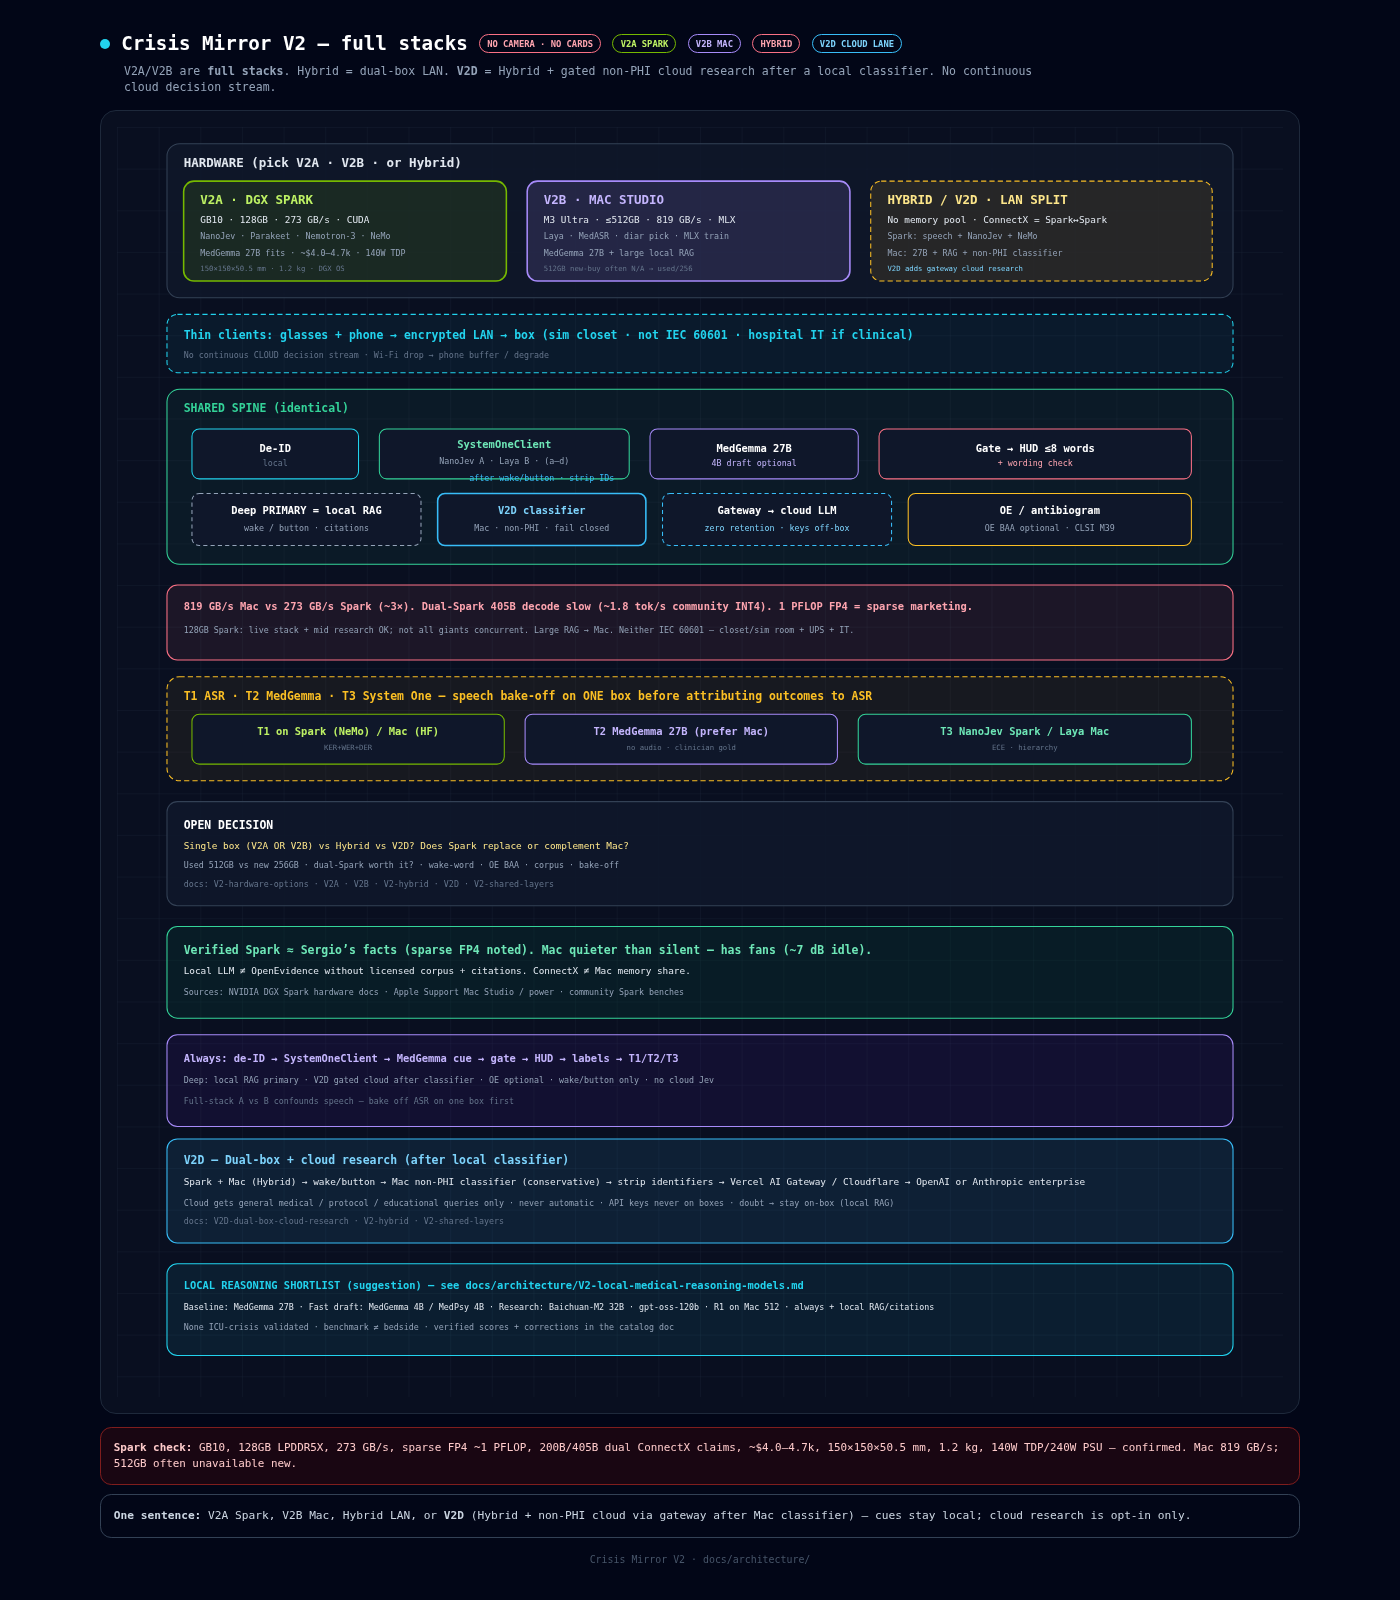
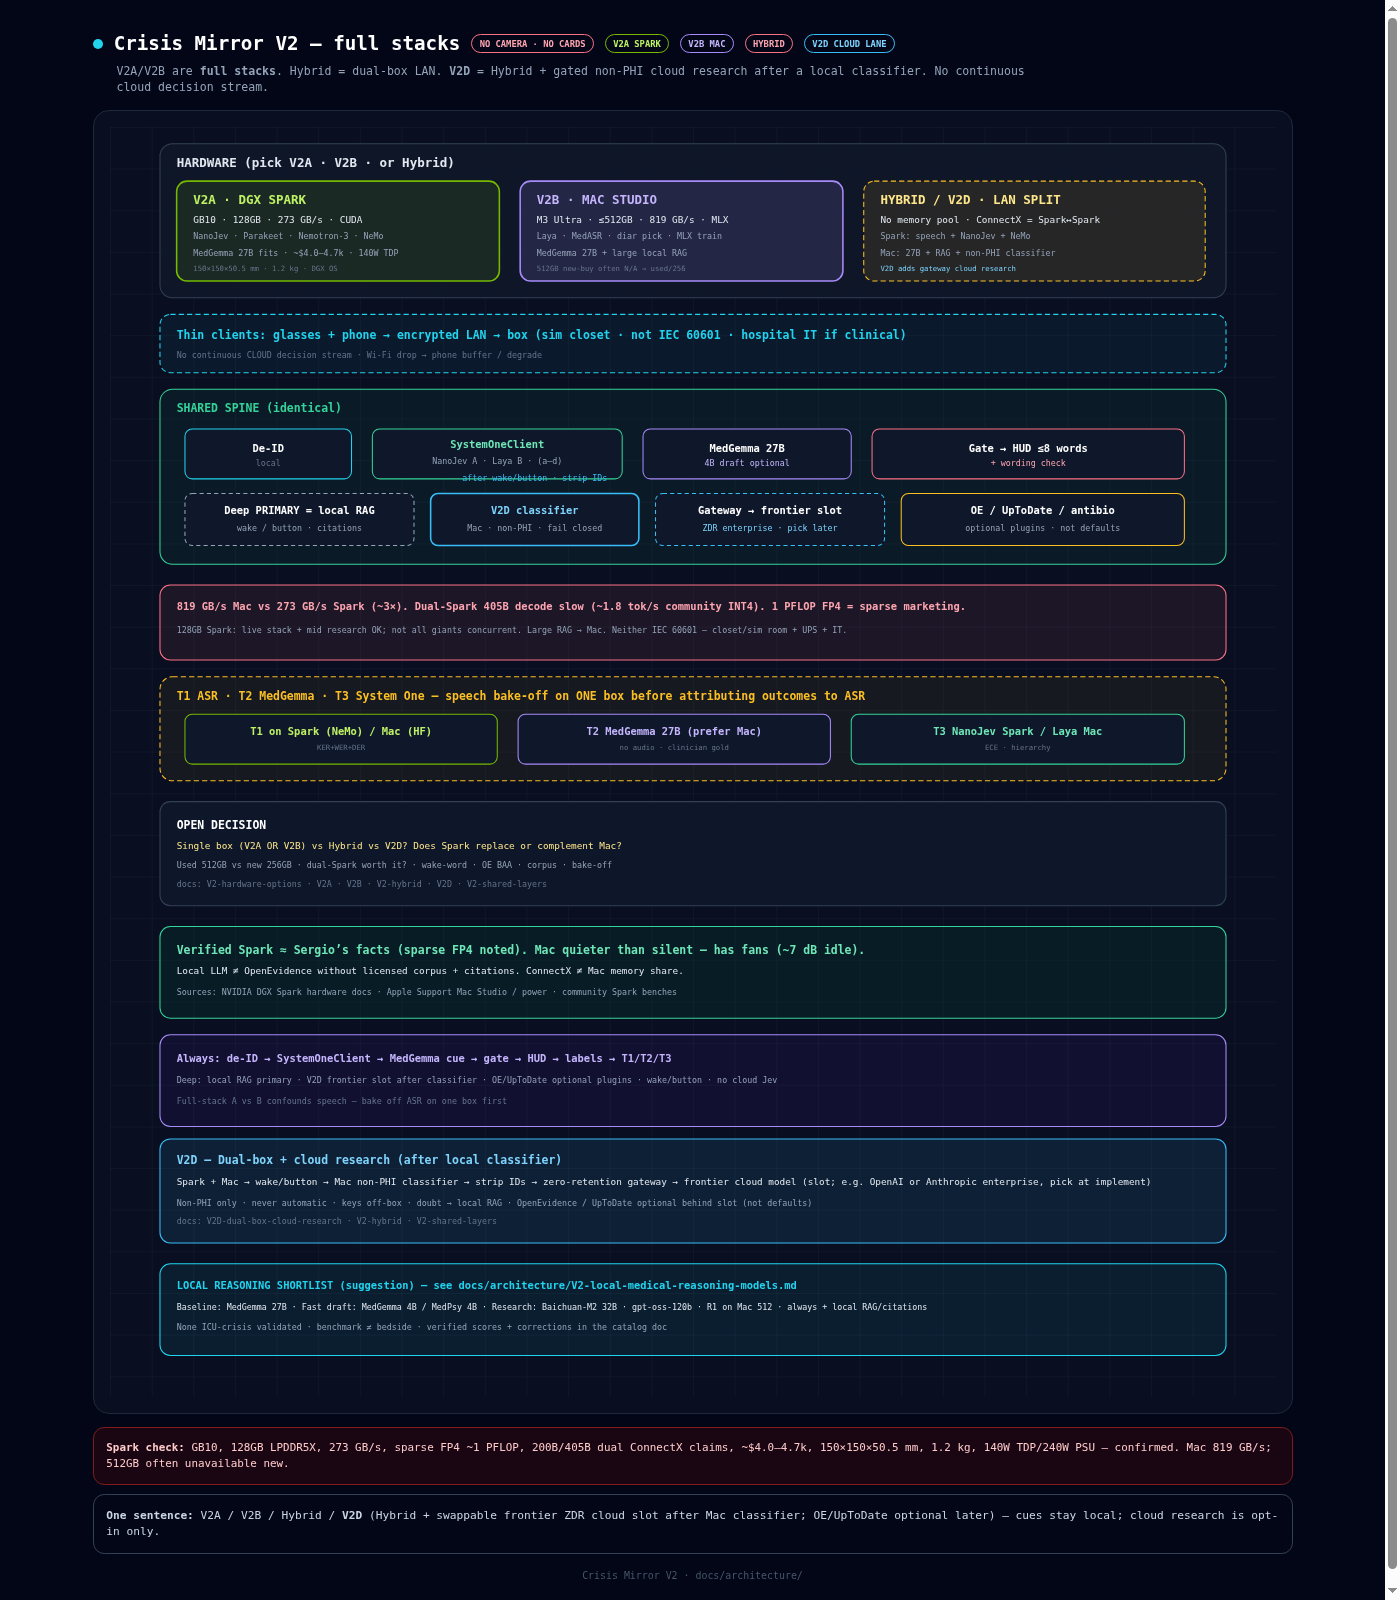
docs(arch): V2D cloud model is a swappable frontier slot
Provider is chosen at implementation (ZDR enterprise tier, e.g. OpenAI or
Anthropic). OpenEvidence and UpToDate listed as optional curated plugins, not
defaults. Diagram labels updated.

diff --git a/crisis-mirror-architecture.html b/crisis-mirror-architecture.html
@@ -62,8 +62,8 @@ svg{width:100%;min-width:1100px;display:block}
 <rect x="732" y="290" width="300" height="48" rx="7" fill="#0f172a" stroke="#fb7185"/><text x="882" y="312" fill="#fff" font-size="10" font-weight="600" text-anchor="middle">Gate → HUD ≤8 words</text><text x="882" y="326" fill="#fda4af" font-size="8" text-anchor="middle">+ wording check</text>
 <rect x="72" y="352" width="220" height="50" rx="7" fill="#0f172a" stroke="#94a3b8" stroke-dasharray="4,3"/><text x="182" y="372" fill="#fff" font-size="10" font-weight="600" text-anchor="middle">Deep PRIMARY = local RAG</text><text x="182" y="388" fill="#94a3b8" font-size="8" text-anchor="middle">wake / button · citations</text>
 <rect x="308" y="352" width="200" height="50" rx="7" fill="#0f172a" stroke="#38bdf8" stroke-width="1.5"/><text x="408" y="372" fill="#7dd3fc" font-size="10" font-weight="700" text-anchor="middle">V2D classifier</text><text x="408" y="388" fill="#94a3b8" font-size="8" text-anchor="middle">Mac · non-PHI · fail closed</text>
-<rect x="524" y="352" width="220" height="50" rx="7" fill="#0f172a" stroke="#38bdf8" stroke-dasharray="4,3"/><text x="634" y="372" fill="#fff" font-size="10" font-weight="600" text-anchor="middle">Gateway → cloud LLM</text><text x="634" y="388" fill="#7dd3fc" font-size="8" text-anchor="middle">zero retention · keys off-box</text>
-<rect x="760" y="352" width="272" height="50" rx="7" fill="#0f172a" stroke="#fbbf24"/><text x="896" y="372" fill="#fff" font-size="10" font-weight="600" text-anchor="middle">OE / antibiogram</text><text x="896" y="388" fill="#94a3b8" font-size="8" text-anchor="middle">OE BAA optional · CLSI M39</text>
+<rect x="524" y="352" width="220" height="50" rx="7" fill="#0f172a" stroke="#38bdf8" stroke-dasharray="4,3"/><text x="634" y="372" fill="#fff" font-size="10" font-weight="600" text-anchor="middle">Gateway → frontier slot</text><text x="634" y="388" fill="#7dd3fc" font-size="8" text-anchor="middle">ZDR enterprise · pick later</text>
+<rect x="760" y="352" width="272" height="50" rx="7" fill="#0f172a" stroke="#fbbf24"/><text x="896" y="372" fill="#fff" font-size="10" font-weight="600" text-anchor="middle">OE / UpToDate / antibio</text><text x="896" y="388" fill="#94a3b8" font-size="8" text-anchor="middle">optional plugins · not defaults</text>
 <!-- V2D branch arrows (conceptual labels) -->
 <text x="408" y="340" fill="#38bdf8" font-size="8" text-anchor="middle">after wake/button · strip IDs</text>
 
@@ -90,14 +90,14 @@ svg{width:100%;min-width:1100px;display:block}
 
 <rect x="48" y="872" width="1024" height="88" rx="10" fill="rgba(76,29,149,.15)" stroke="#a78bfa"/>
 <text x="64" y="898" fill="#c4b5fd" font-size="10" font-weight="700">Always: de-ID → SystemOneClient → MedGemma cue → gate → HUD → labels → T1/T2/T3</text>
-<text x="64" y="918" fill="#94a3b8" font-size="8">Deep: local RAG primary · V2D gated cloud after classifier · OE optional · wake/button only · no cloud Jev</text>
+<text x="64" y="918" fill="#94a3b8" font-size="8">Deep: local RAG primary · V2D frontier slot after classifier · OE/UpToDate optional plugins · wake/button · no cloud Jev</text>
 <text x="64" y="938" fill="#64748b" font-size="8">Full-stack A vs B confounds speech — bake off ASR on one box first</text>
 
 <!-- V2D cloud research lane -->
 <rect x="48" y="972" width="1024" height="100" rx="10" fill="rgba(56,189,248,.1)" stroke="#38bdf8"/>
 <text x="64" y="996" fill="#7dd3fc" font-size="11" font-weight="700">V2D — Dual-box + cloud research (after local classifier)</text>
-<text x="64" y="1016" fill="#e2e8f0" font-size="9">Spark + Mac (Hybrid) → wake/button → Mac non-PHI classifier (conservative) → strip identifiers → Vercel AI Gateway / Cloudflare → OpenAI or Anthropic enterprise</text>
-<text x="64" y="1036" fill="#94a3b8" font-size="8">Cloud gets general medical / protocol / educational queries only · never automatic · API keys never on boxes · doubt → stay on-box (local RAG)</text>
+<text x="64" y="1016" fill="#e2e8f0" font-size="9">Spark + Mac → wake/button → Mac non-PHI classifier → strip IDs → zero-retention gateway → frontier cloud model (slot; e.g. OpenAI or Anthropic enterprise, pick at implement)</text>
+<text x="64" y="1036" fill="#94a3b8" font-size="8">Non-PHI only · never automatic · keys off-box · doubt → local RAG · OpenEvidence / UpToDate optional behind slot (not defaults)</text>
 <text x="64" y="1054" fill="#64748b" font-size="8">docs: V2D-dual-box-cloud-research · V2-hybrid · V2-shared-layers</text>
 
 <!-- Reasoning shortlist -->
@@ -107,6 +107,6 @@ svg{width:100%;min-width:1100px;display:block}
 <text x="64" y="1156" fill="#94a3b8" font-size="8">None ICU-crisis validated · benchmark ≠ bedside · verified scores + corrections in the catalog doc</text>
 </svg></div>
 <div class="flag"><b>Spark check:</b> GB10, 128GB LPDDR5X, 273 GB/s, sparse FP4 ~1 PFLOP, 200B/405B dual ConnectX claims, ~$4.0–4.7k, 150×150×50.5 mm, 1.2 kg, 140W TDP/240W PSU — confirmed. Mac 819 GB/s; 512GB often unavailable new.</div>
-<div class="ok"><b>One sentence:</b> V2A Spark, V2B Mac, Hybrid LAN, or <b>V2D</b> (Hybrid + non-PHI cloud via gateway after Mac classifier) — cues stay local; cloud research is opt-in only.</div>
+<div class="ok"><b>One sentence:</b> V2A / V2B / Hybrid / <b>V2D</b> (Hybrid + swappable frontier ZDR cloud slot after Mac classifier; OE/UpToDate optional later) — cues stay local; cloud research is opt-in only.</div>
 <p class="footer">Crisis Mirror V2 · docs/architecture/</p>
 </div></body></html>

diff --git a/docs/architecture/V2D-dual-box-cloud-research.md b/docs/architecture/V2D-dual-box-cloud-research.md
@@ -10,14 +10,14 @@ It is **not** a fourth full speech stack. Speech + System One + MedGemma cues st
 |-------|--------|------|
 | DGX Spark | On-prem | Speech (Parakeet + Nemotron-3) · NanoJev · NeMo T1/T3 · optional mid local research |
 | Mac Studio | On-prem | MedGemma 27B · local RAG · **non-PHI classifier** · egress strip · HUD / panel |
-| Cloud research LLM | Via **gateway only** | On-demand deep research when classifier says **non-PHI** |
+| **Frontier cloud model (slot)** | Via **gateway only** | Swappable: a frontier cloud model with **zero-data-retention enterprise tier** (e.g. OpenAI or Anthropic), **selected at implementation time** |
 
 ## Hard rules (non-negotiable)
 
 1. **Cloud never sees PHI.** Only questions the local system has classified as **non-PHI** (general medical knowledge, protocol lookups, educational queries).
 2. **Strip identifiers before egress.** Patient names, MRNs, ages that identify, unit/bed, dates that identify, free-text that still contains identifiers — all removed on-box.
 3. **Classify on the Mac Studio before egress.** The classifier runs **locally**; when in doubt → **keep on-box** (local RAG only). Conservative bias is required.
-4. **Gateway with zero data retention.** Prefer **OpenAI or Anthropic enterprise** (or equivalent) routed through **Vercel AI Gateway** or **Cloudflare** (or similar) so **API keys never live on the Spark or Mac**. Boxes call the gateway; the gateway holds provider credentials.
+4. **Gateway with zero data retention.** Route through a gateway (e.g. **Vercel AI Gateway** or **Cloudflare**) so **API keys never live on the Spark or Mac**. The **cloud model is a swappable slot**: a frontier cloud model with **zero-data-retention enterprise tier** (e.g. OpenAI or Anthropic), **selected at implementation time** — not locked in the architecture. Boxes call the gateway; the gateway holds provider credentials.
 5. **On-demand only.** Wake word or clinician button — **never automatic**. Same trigger contract as local deep research ("Hey Dr. Bellomo" placeholder / button).
 6. **No continuous cloud decision stream.** System One (a–d), MedGemma cues, and the safety gate stay **local**. Cloud is research, not bedside routing.
 
@@ -28,7 +28,8 @@ clinician wake/button
     → Mac Studio builds research question from room context
     → local non-PHI classifier (conservative)
          ├─ PHI / uncertain → local RAG only (never egress)
-         └─ non-PHI → strip identifiers → gateway → cloud research LLM
+         └─ non-PHI → strip identifiers → gateway → **frontier cloud model (slot)**
+              → optional curated evidence plugins (OE / UpToDate) if contracted
               → citations/panel back to clinician UI
 ```
 
@@ -38,20 +39,22 @@ Local RAG remains **primary** for anything that might touch the patient. Cloud i
 
 | Variant | Boxes | Deep research |
 |---------|-------|----------------|
-| **V2A** | Spark only | Local RAG (+ OE optional w/ BAA) |
-| **V2B** | Mac only | Local RAG (+ OE optional w/ BAA) |
-| **Hybrid** | Spark + Mac | Local RAG on Mac (+ OE optional) |
-| **V2D** | Spark + Mac | Local RAG **+** gated non-PHI cloud via zero-retention gateway |
+| **V2A** | Spark only | Local RAG (+ optional curated evidence later) |
+| **V2B** | Mac only | Local RAG (+ optional curated evidence later) |
+| **Hybrid** | Spark + Mac | Local RAG on Mac (+ optional curated evidence later) |
+| **V2D** | Spark + Mac | Local RAG **+** gated non-PHI **frontier cloud model (slot)** via zero-retention gateway |
 
-OpenEvidence (enterprise BAA) stays an **optional separate** product path; V2D’s cloud lane is the **general high-end provider** path under the rules above.
+### Optional curated evidence (not defaults)
+
+**OpenEvidence** and **UpToDate** (or similar) may be **plugged in behind** the frontier cloud model once **enterprise agreements** are in place. Neither is a default; neither is required for V2D. Treat them as optional evidence sources behind the same wake/button + non-PHI gate, not as the named cloud model.
 
 ## Open decisions specific to V2D
 
 - Classifier model / ruleset ownership and eval (false-negative PHI leak = fail closed)
 - Gateway choice (Vercel AI Gateway vs Cloudflare vs other) and logging policy (must be zero retention for prompts/completions)
-- Which cloud model(s) for research (enterprise tier only)
+- **Which frontier enterprise model fills the slot** (chosen at implementation; architecture stays provider-agnostic)
+- Whether to add OpenEvidence / UpToDate (or neither) once contracts exist — **opt-in plugins, not defaults**
 - Audit log of “egress denied” vs “egress allowed” without storing PHI
-- Whether OE BAA path is pursued in parallel or deferred
 
 ## See also
 

diff --git a/docs/architecture/V2-shared-layers.md b/docs/architecture/V2-shared-layers.md
@@ -133,11 +133,11 @@ Salience · category · escalate · action/urgency — all **local** (Laya on H1
 3. Rules: **mandatory citations**; **no source = no claim**; corpus refresh cadence; **knowledge-cutoff** caveat; **paywalled journals excluded**.  
 4. Optional: de-ID **PubMed E-utilities** live query (public API, no PHI) — still a **network call** + policy decision.
 
-### Optional cloud: OpenEvidence
-Only if/when **enterprise BAA** secured. **No verified public self-serve API** (enterprise/Epic integrations). Dashed fallback in diagram.
+### Optional curated evidence: OpenEvidence / UpToDate
+Optional plugins behind deep research **once enterprise agreements are in place**. **Neither is a default.** OpenEvidence: only with **enterprise BAA**; no verified public self-serve API. UpToDate: same rule — contract first. Dashed / optional in diagram.
 
-### Optional cloud: V2D high-end research (non-PHI only)
-On **V2D** (Hybrid dual-box + cloud lane): after clinician wake/button, Mac Studio runs a **conservative non-PHI classifier**. Only general medical / protocol / educational queries may egress; **identifiers stripped**; when in doubt **stay on-box**. Route via **zero-retention gateway** (e.g. Vercel AI Gateway or Cloudflare → OpenAI/Anthropic enterprise) so **API keys never sit on the boxes**. Never automatic. See [`V2D-dual-box-cloud-research.md`](./V2D-dual-box-cloud-research.md).
+### Optional cloud: V2D frontier research slot (non-PHI only)
+On **V2D** (Hybrid dual-box + cloud lane): after clinician wake/button, Mac Studio runs a **conservative non-PHI classifier**. Only general medical / protocol / educational queries may egress; **identifiers stripped**; when in doubt **stay on-box**. Route via **zero-retention gateway** (e.g. Vercel AI Gateway or Cloudflare) to a **swappable frontier cloud model** with zero-data-retention enterprise tier (e.g. OpenAI or Anthropic), **selected at implementation time**. **API keys never sit on the boxes.** Never automatic. **OpenEvidence** and **UpToDate** may plug in later behind that model once enterprise agreements exist — **optional, not defaults**. See [`V2D-dual-box-cloud-research.md`](./V2D-dual-box-cloud-research.md).
 
 
 ### Still clinician opt-in

diff --git a/docs/architecture/V2-hardware-options.md b/docs/architecture/V2-hardware-options.md
@@ -47,7 +47,7 @@ Sources: NVIDIA Spark hardware; [Apple M3 Ultra / Mac Studio specs](https://supp
 | System One | **Laya** default | **NanoJev** native | Both, by service | Same (always local) |
 | NeMo / V2A train | Awkward | **Native** | Spark does T1/T3 CUDA | Same as Hybrid |
 | MedGemma 27B | Comfortable (+ RAG + research) | **Fits** (~14–54 GB) with speech | Prefer Mac for 27B+RAG | Same; Mac runs **non-PHI classifier** |
-| Largest practical research | 70B–120B easy; 671B MoE Q4 possible but crowded | Mid: **70B 4-bit ~40 GB** + speech; dual-Spark 405B **slow** | Mac for big RAG; Spark for CUDA jobs | Local RAG **+** enterprise cloud (non-PHI only) |
+| Largest practical research | 70B–120B easy; 671B MoE Q4 possible but crowded | Mid: **70B 4-bit ~40 GB** + speech; dual-Spark 405B **slow** | Mac for big RAG; Spark for CUDA jobs | Local RAG **+** frontier cloud **slot** (non-PHI only; OE/UpToDate optional) |
 | Decode speed | 27B 4-bit ~15–28 tok/s class (M3 Max proxies); measure Ultra | e.g. community: 70B NVFP4 ~5 tok/s; 120B ~27; dual 405B INT4 ~**1.8 tok/s** | LAN adds ms–tens of ms | Cloud research latency separate (opt-in) |
 | Price | ~$9.5k launch 512 GB; used much higher; new often 256 GB | ~$4.0–4.7k | Sum + networking | Hybrid + gateway/API spend |
 | Power | Idle ~9 W; max ~270 W (512 GB table); rated 480 W | SoC 140 W TDP; 240 W PSU | Both on UPS | Same |
@@ -90,5 +90,5 @@ Multiple variables differ (box, System One, ASR, training stack). **Outcome diff
 2. Does Spark **replace or complement** Mac?  
 3. Mac 512 used vs 256 new vs wait  
 4. Dual-Spark for 405B worth it given slow decode?  
-5. V2D: gateway (Vercel AI Gateway vs Cloudflare), classifier eval, enterprise cloud model pick  
+5. V2D: gateway (Vercel AI Gateway vs Cloudflare), classifier eval, **which frontier enterprise model fills the swappable slot**, optional OE/UpToDate plugins  
 6. Plus prior: wake-word, OE BAA, corpus rights, gold nudges, Sortformer vs Nemotron-3 on Mac, etc.
